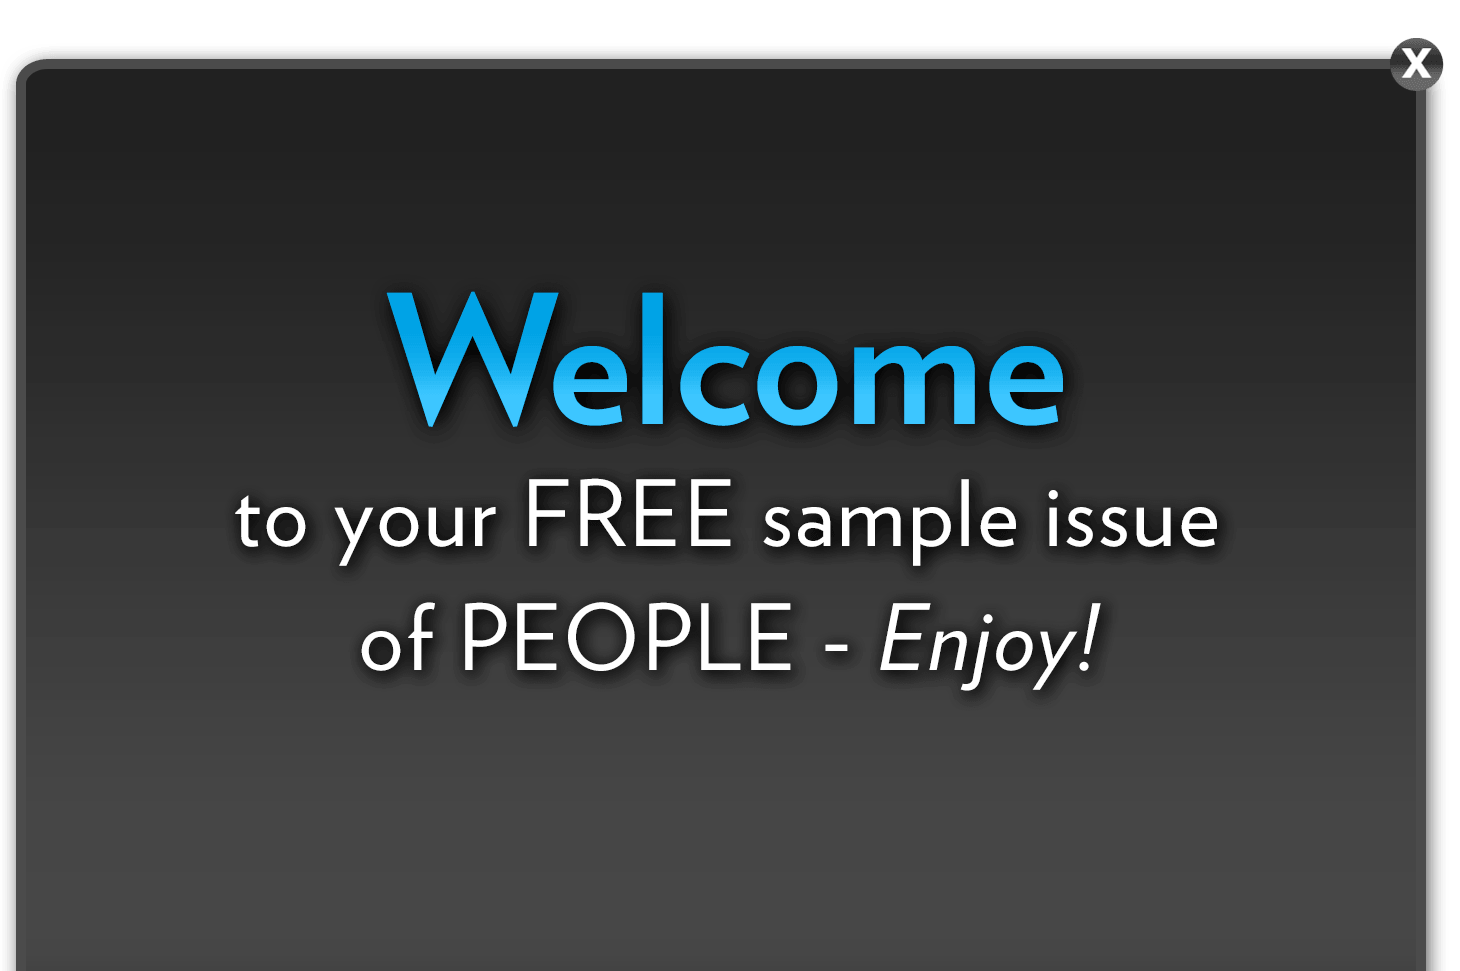
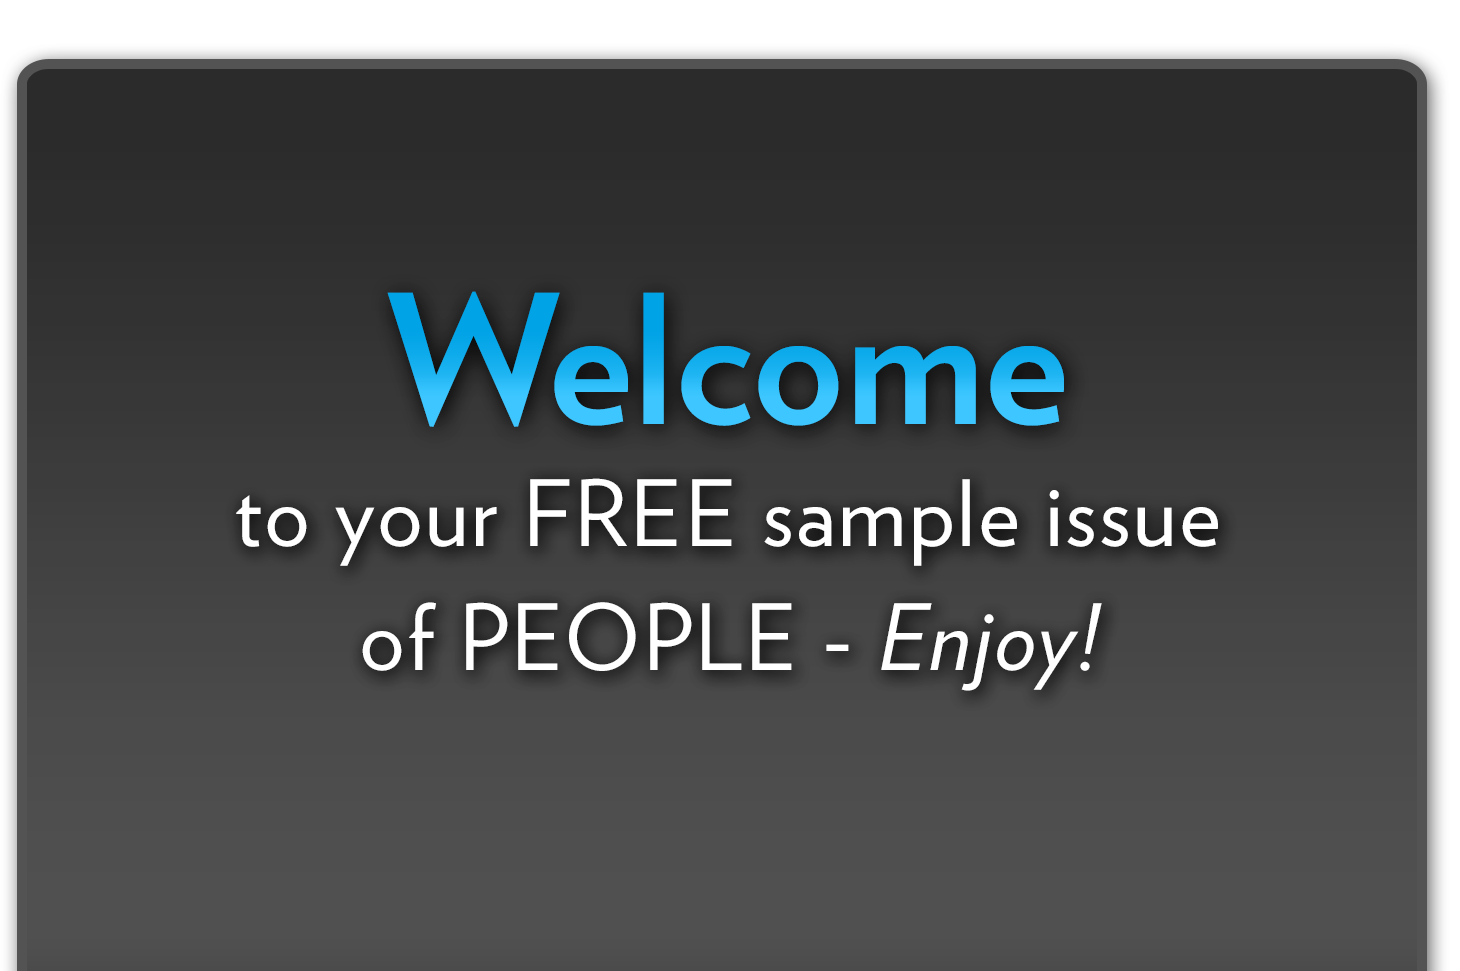
PE - update to digital inserts

diff --git a/store/inserts/PE/insert_001.html b/store/inserts/PE/insert_001.html
@@ -88,7 +88,7 @@
       height: 100%;
       margin: 0;
       padding: 0;
-      border: none;
+      border: 0px;
       overflow: hidden;
       
       -webkit-transform: translate3d(0,0,0);
@@ -99,20 +99,6 @@
       position:absolute;
       width: 100%;
       height: 100%;
-    }
-    
-    .close {
-      position: absolute;
-      background-color:#FF0000;
-      opacity: .80;
-      bottom: 385px;
-      right: 55px;
-      width: 40px;
-      height: 40px;
-      z-index: 10000;
-    }
-    .close:hover {
-      background-color: #00FF00;
     }
   </style>
 
@@ -131,48 +117,31 @@
     (function() {
       var api = (typeof adobeDPS == "undefined") ? MockAPI : adobeDPS;
       var buy_sub = function() { setTimeout(buy_sub, 500) };
-      var url = document.URL;
       
       $(function() {
-        api.initializationComplete.addOnce(function() {
-          buy_sub = function() {
-            api.subscriptionService.availableSubscriptions["com.timeinc.people.ipad.subs.6"].purchase();
-          };
-          close = function() {
-            api.dialogService.dismissCustomWebview(url);
-          };
+        $("#banner a").click(function() {
+          $("body").addClass("show-spinner");
+          buy_sub();
+          return false;
         });
       });
+
+      api.initializationComplete.addOnce(function() {
+        buy_sub = function() {
+          api.subscriptionService.availableSubscriptions["com.timeinc.people.ipad.subs.6"].purchase();
+        }
+      });
+
     })();
-    
-    $(document).ready(function() {
-      $(".close").click(function(e) {
-        e.preventDefault();
-      
-        console.log("close");
-        $("#wrapper").remove();
-        close();
-      });
-      
-      $("#banner a").click(function(e) {
-        e.preventDefault();
-        
-        $("body").addClass("show-spinner");
-        console.log("buy sub");
-        buy_sub();
-        return false;
-      });
-    });
   </script>
 </head>
  
 <body>
   <div id="wrapper">
     <div id="banner">
-      <div class="close"></div>
-      <a href="#"></a>
+      <!--<a href="#"></a>-->
     </div>
-    <div class="spinner"></div>
+    <!--<div class="spinner"></div>-->
   </div>
 </body>
 

diff --git a/store/inserts/PE/insert_002.html b/store/inserts/PE/insert_002.html
@@ -88,7 +88,7 @@
       height: 100%;
       margin: 0;
       padding: 0;
-      border: none;
+      border: 0px;
       overflow: hidden;
       
       -webkit-transform: translate3d(0,0,0);
@@ -99,20 +99,6 @@
       position:absolute;
       width: 100%;
       height: 100%;
-    }
-    
-    .close {
-      position: absolute;
-      background-color:#FF0000;
-      opacity: .80;
-      bottom: 385px;
-      right: 55px;
-      width: 40px;
-      height: 40px;
-      z-index: 10000;
-    }
-    .close:hover {
-      background-color: #00FF00;
     }
   </style>
 
@@ -131,45 +117,28 @@
     (function() {
       var api = (typeof adobeDPS == "undefined") ? MockAPI : adobeDPS;
       var buy_sub = function() { setTimeout(buy_sub, 500) };
-      var url = document.URL;
       
       $(function() {
-        api.initializationComplete.addOnce(function() {
-          buy_sub = function() {
-            api.subscriptionService.availableSubscriptions["com.timeinc.people.ipad.subs.6"].purchase();
-          };
-          close = function() {
-            api.dialogService.dismissCustomWebview(url);
-          };
+        $("#banner a").click(function() {
+          $("body").addClass("show-spinner");
+          buy_sub();
+          return false;
         });
       });
+
+      api.initializationComplete.addOnce(function() {
+        buy_sub = function() {
+          api.subscriptionService.availableSubscriptions["com.timeinc.people.ipad.subs.6"].purchase();
+        }
+      });
+
     })();
-    
-    $(document).ready(function() {
-      $(".close").click(function(e) {
-        e.preventDefault();
-      
-        console.log("close");
-        $("#wrapper").remove();
-        close();
-      });
-      
-      $("#banner a").click(function(e) {
-        e.preventDefault();
-        
-        $("body").addClass("show-spinner");
-        console.log("buy sub");
-        buy_sub();
-        return false;
-      });
-    });
   </script>
 </head>
  
 <body>
   <div id="wrapper">
     <div id="banner">
-      <div class="close"></div>
       <a href="#"></a>
     </div>
     <div class="spinner"></div>

diff --git a/store/inserts/PE/insert_003.html b/store/inserts/PE/insert_003.html
@@ -88,7 +88,7 @@
       height: 100%;
       margin: 0;
       padding: 0;
-      border: none;
+      border: 0px;
       overflow: hidden;
       
       -webkit-transform: translate3d(0,0,0);
@@ -99,20 +99,6 @@
       position:absolute;
       width: 100%;
       height: 100%;
-    }
-    
-    .close {
-      position: absolute;
-      background-color:#FF0000;
-      opacity: .80;
-      bottom: 385px;
-      right: 55px;
-      width: 40px;
-      height: 40px;
-      z-index: 10000;
-    }
-    .close:hover {
-      background-color: #00FF00;
     }
   </style>
 
@@ -131,45 +117,28 @@
     (function() {
       var api = (typeof adobeDPS == "undefined") ? MockAPI : adobeDPS;
       var buy_sub = function() { setTimeout(buy_sub, 500) };
-      var url = document.URL;
       
       $(function() {
-        api.initializationComplete.addOnce(function() {
-          buy_sub = function() {
-            api.subscriptionService.availableSubscriptions["com.timeinc.people.ipad.subs.6"].purchase();
-          };
-          close = function() {
-            api.dialogService.dismissCustomWebview(url);
-          };
+        $("#banner a").click(function() {
+          $("body").addClass("show-spinner");
+          buy_sub();
+          return false;
         });
       });
+
+      api.initializationComplete.addOnce(function() {
+        buy_sub = function() {
+          api.subscriptionService.availableSubscriptions["com.timeinc.people.ipad.subs.6"].purchase();
+        }
+      });
+
     })();
-    
-    $(document).ready(function() {
-      $(".close").click(function(e) {
-        e.preventDefault();
-      
-        console.log("close");
-        $("#wrapper").remove();
-        close();
-      });
-      
-      $("#banner a").click(function(e) {
-        e.preventDefault();
-        
-        $("body").addClass("show-spinner");
-        console.log("buy sub");
-        buy_sub();
-        return false;
-      });
-    });
   </script>
 </head>
  
 <body>
   <div id="wrapper">
     <div id="banner">
-      <div class="close"></div>
       <a href="#"></a>
     </div>
     <div class="spinner"></div>

diff --git a/store/inserts/PE/insert_004.html b/store/inserts/PE/insert_004.html
@@ -88,7 +88,7 @@
       height: 100%;
       margin: 0;
       padding: 0;
-      border: none;
+      border: 0px;
       overflow: hidden;
       
       -webkit-transform: translate3d(0,0,0);
@@ -99,20 +99,6 @@
       position:absolute;
       width: 100%;
       height: 100%;
-    }
-    
-    .close {
-      position: absolute;
-      background-color:#FF0000;
-      opacity: .80;
-      bottom: 385px;
-      right: 55px;
-      width: 40px;
-      height: 40px;
-      z-index: 10000;
-    }
-    .close:hover {
-      background-color: #00FF00;
     }
   </style>
 
@@ -131,45 +117,28 @@
     (function() {
       var api = (typeof adobeDPS == "undefined") ? MockAPI : adobeDPS;
       var buy_sub = function() { setTimeout(buy_sub, 500) };
-      var url = document.URL;
       
       $(function() {
-        api.initializationComplete.addOnce(function() {
-          buy_sub = function() {
-            api.subscriptionService.availableSubscriptions["com.timeinc.people.ipad.subs.6"].purchase();
-          };
-          close = function() {
-            api.dialogService.dismissCustomWebview(url);
-          };
+        $("#banner a").click(function() {
+          $("body").addClass("show-spinner");
+          buy_sub();
+          return false;
         });
       });
+
+      api.initializationComplete.addOnce(function() {
+        buy_sub = function() {
+          api.subscriptionService.availableSubscriptions["com.timeinc.people.ipad.subs.6"].purchase();
+        }
+      });
+
     })();
-    
-    $(document).ready(function() {
-      $(".close").click(function(e) {
-        e.preventDefault();
-      
-        console.log("close");
-        $("#wrapper").remove();
-        close();
-      });
-      
-      $("#banner a").click(function(e) {
-        e.preventDefault();
-        
-        $("body").addClass("show-spinner");
-        console.log("buy sub");
-        buy_sub();
-        return false;
-      });
-    });
   </script>
 </head>
  
 <body>
   <div id="wrapper">
     <div id="banner">
-      <div class="close"></div>
       <a href="#"></a>
     </div>
     <div class="spinner"></div>
